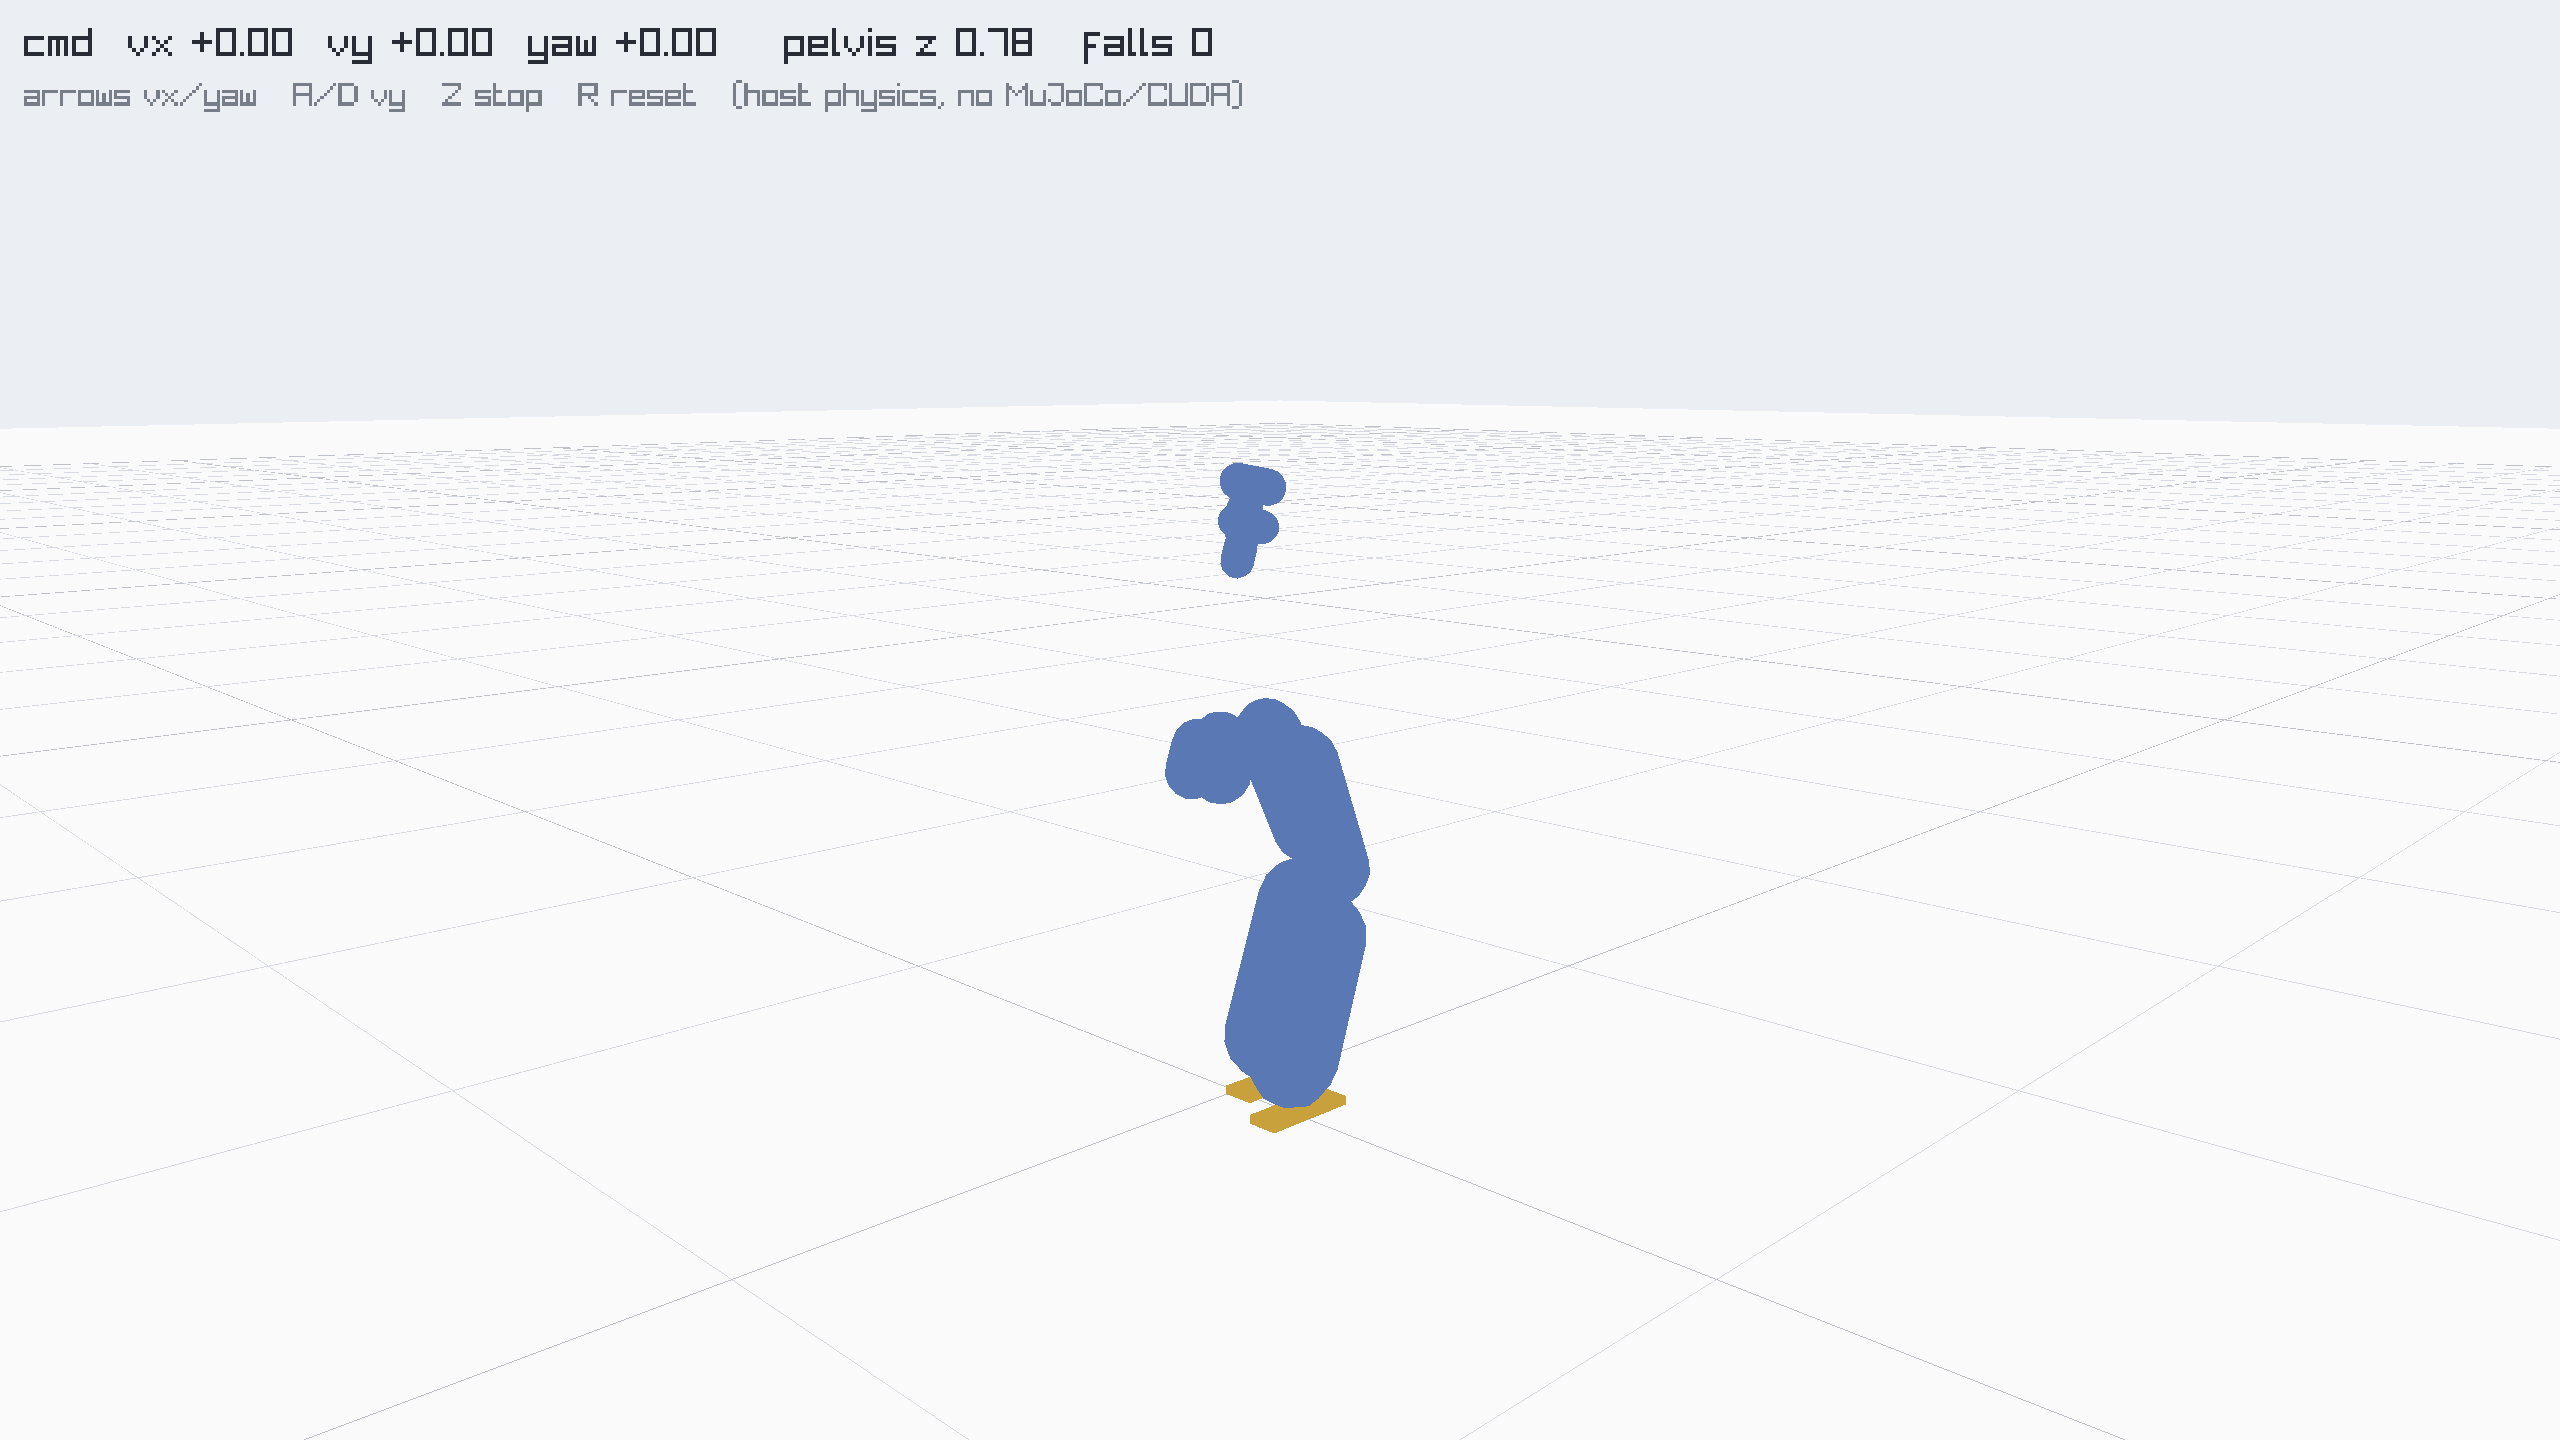
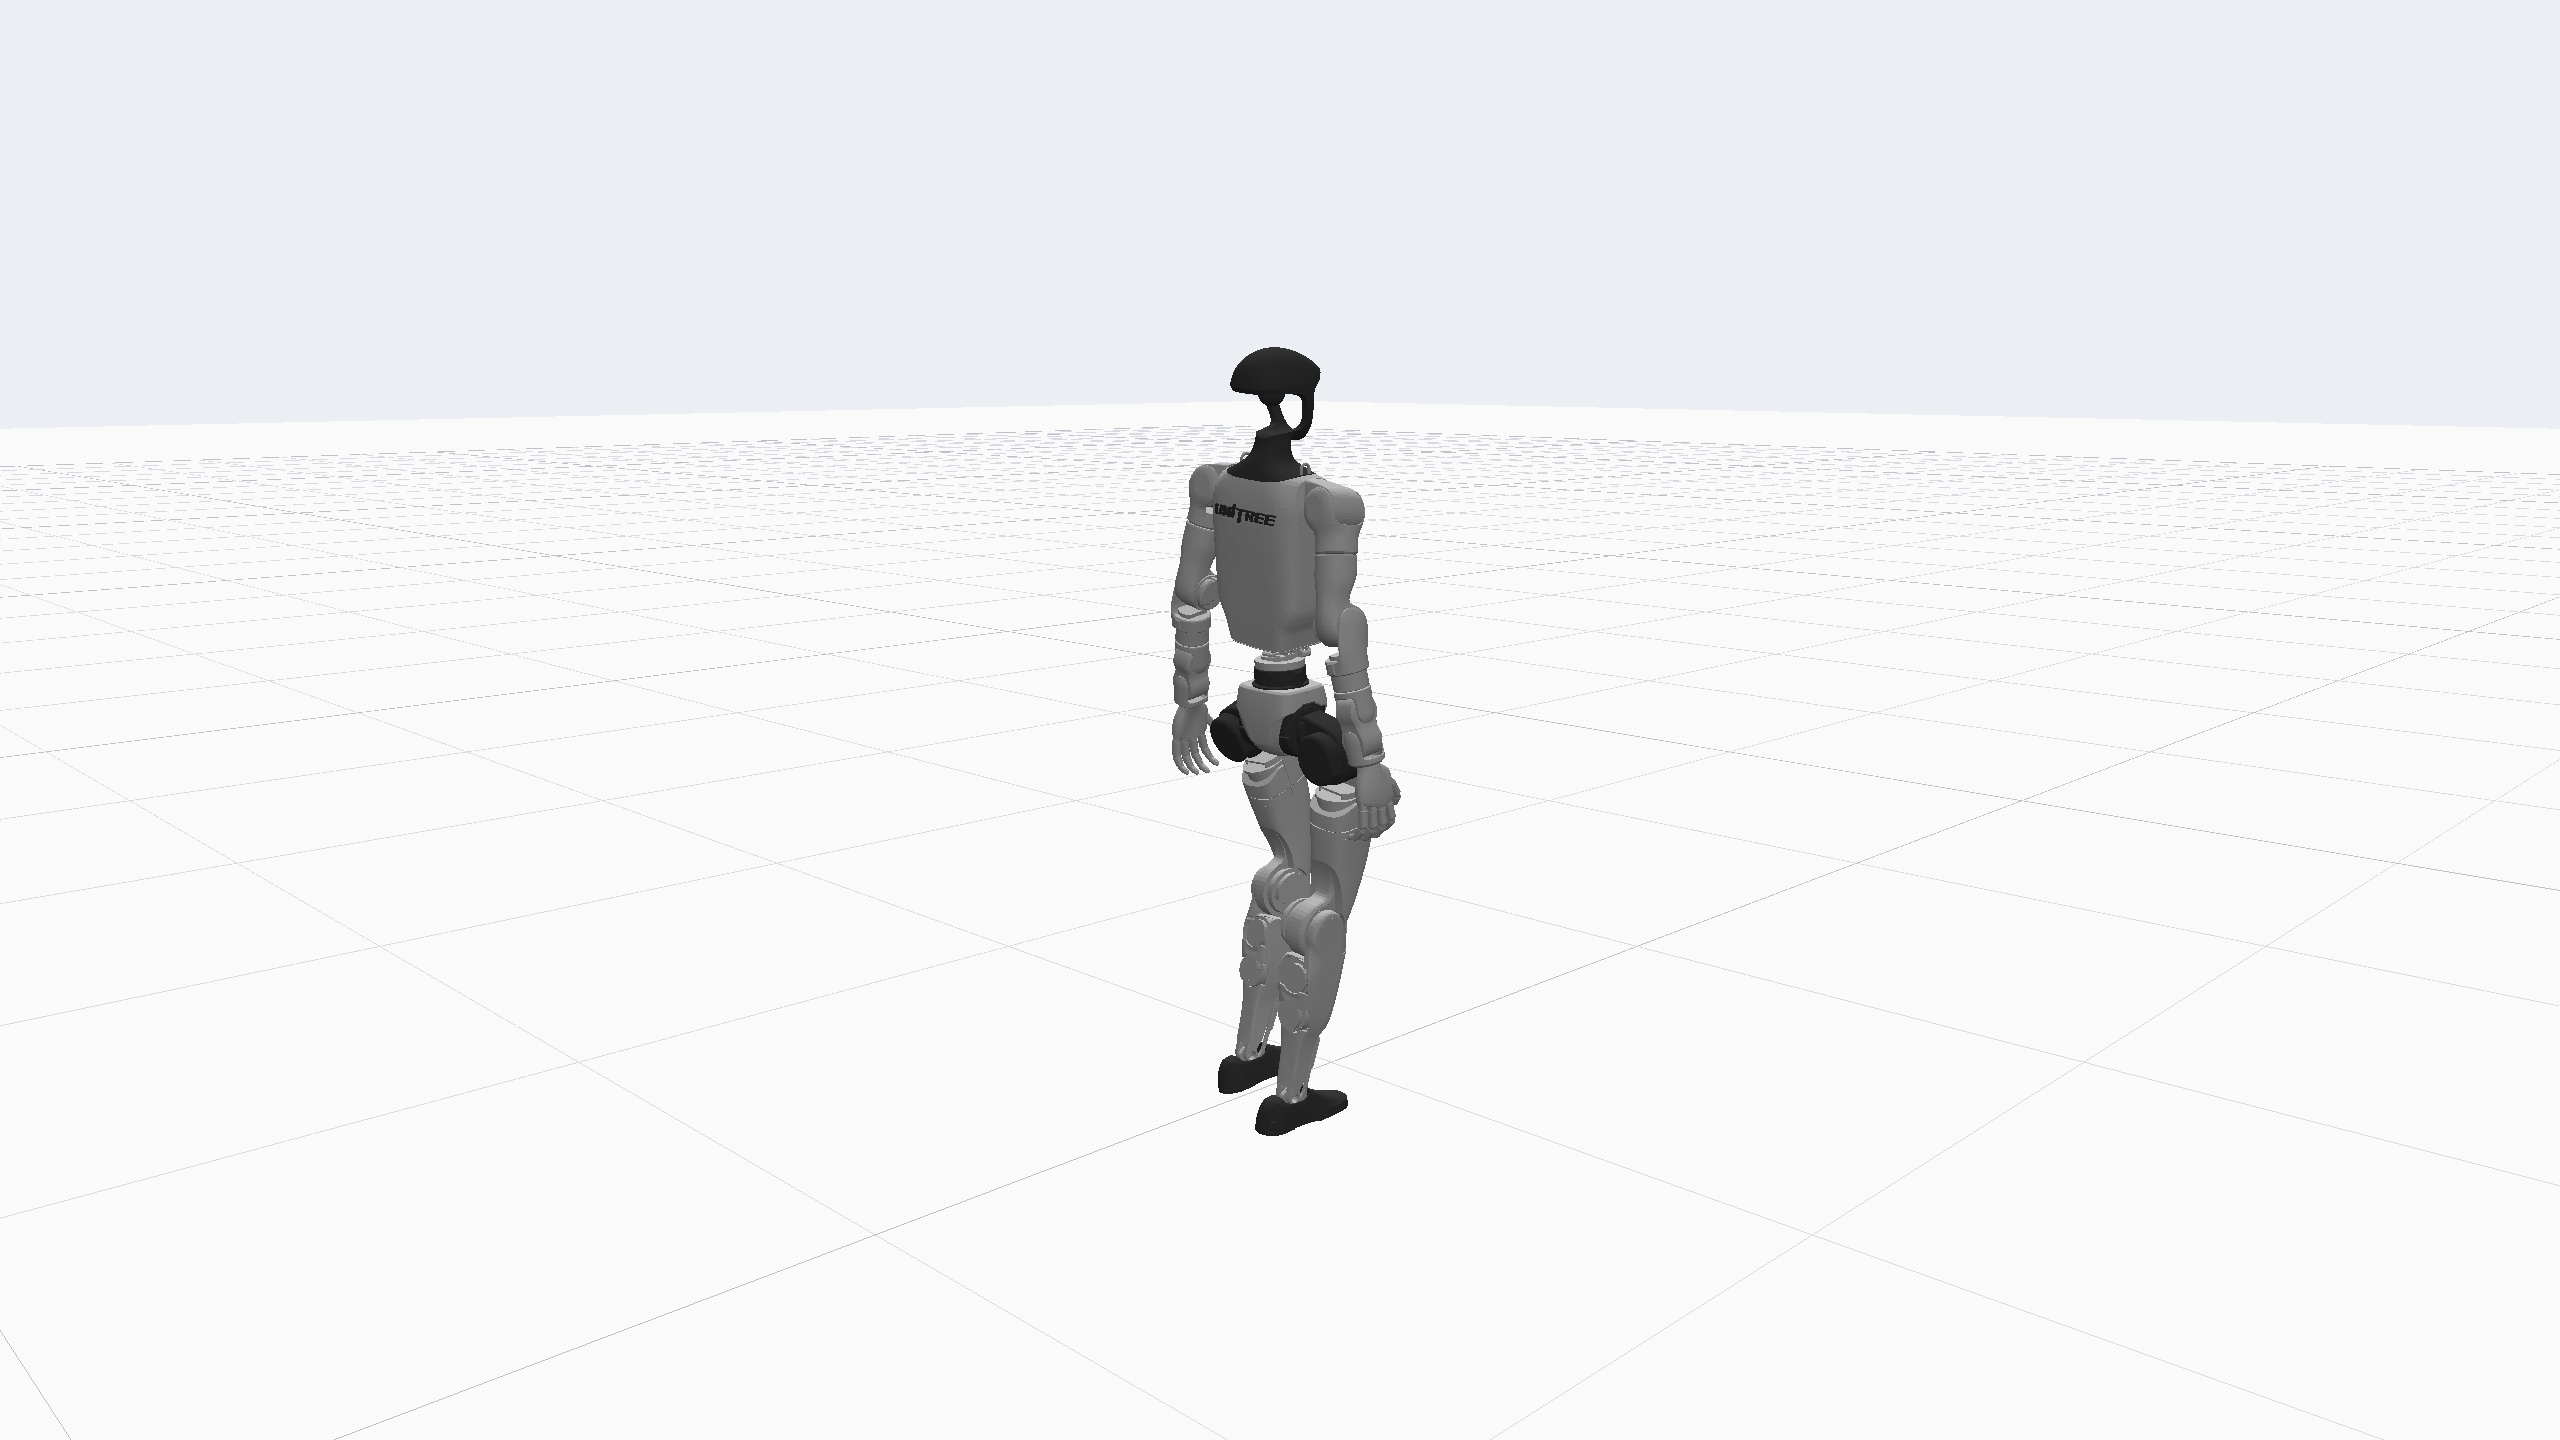
web: add GitHub link beside HF; legit walking-G1 preview image
- shell.html: official GitHub mark (48px) next to the HF icon -> public repo
- g1_demo.c: G1_DEMO_SHOT mode walks forward + runs fixed frames (reproducible shot)
- assets/preview.png: real meshed G1 mid-stride (replaces stale capsule capture)

diff --git a/web/shell.html b/web/shell.html
@@ -20,9 +20,11 @@
   #brandname{font-size:60px;font-weight:800;letter-spacing:1px;line-height:1;
     background:linear-gradient(90deg,#d2a8ff,#7ee787);-webkit-background-clip:text;
     background-clip:text;color:transparent}
-  #hflink{display:inline-block;margin-top:12px;font-size:48px;text-decoration:none;
-    pointer-events:auto;transition:transform .15s}
-  #hflink:hover{transform:scale(1.15)}
+  #links{margin-top:12px;display:flex;gap:18px;align-items:center;justify-content:center}
+  .iconlink{display:inline-flex;align-items:center;font-size:48px;line-height:1;
+    text-decoration:none;pointer-events:auto;transition:transform .15s}
+  .iconlink:hover{transform:scale(1.15)}
+  .iconlink svg{width:48px;height:48px;display:block}
 </style>
 </head>
 <body>
@@ -31,8 +33,14 @@
   <div id="load">loading G1 + policy + physics (WASM)…</div>
   <div id="brand">
     <div id="brandname">nanoG1</div>
-    <a id="hflink" href="https://huggingface.co/kingJulio/nanoG1" target="_blank" rel="noopener"
-       title="nanoG1 on Hugging Face">🤗</a>
+    <div id="links">
+      <a class="iconlink" href="https://huggingface.co/kingJulio/nanoG1" target="_blank" rel="noopener"
+         title="nanoG1 on Hugging Face">🤗</a>
+      <a class="iconlink" href="https://github.com/kingjulio8238/nanoG1" target="_blank" rel="noopener"
+         title="nanoG1 on GitHub">
+        <svg viewBox="0 0 16 16" fill="#1b1f24" aria-hidden="true"><path d="M8 0C3.58 0 0 3.58 0 8c0 3.54 2.29 6.53 5.47 7.59.4.07.55-.17.55-.38 0-.19-.01-.82-.01-1.49-2.01.37-2.53-.49-2.69-.94-.09-.23-.48-.94-.82-1.13-.28-.15-.68-.52-.01-.53.63-.01 1.08.58 1.23.82.72 1.21 1.87.87 2.33.66.07-.52.28-.87.51-1.07-1.78-.2-3.64-.89-3.64-3.95 0-.87.31-1.59.82-2.15-.08-.2-.36-1.02.08-2.12 0 0 .67-.21 2.2.82.64-.18 1.32-.27 2-.27.68 0 1.36.09 2 .27 1.53-1.04 2.2-.82 2.2-.82.44 1.1.16 1.92.08 2.12.51.56.82 1.27.82 2.15 0 3.07-1.87 3.75-3.65 3.95.29.25.54.73.54 1.48 0 1.07-.01 1.93-.01 2.2 0 .21.15.46.55.38A8.013 8.013 0 0 0 16 8c0-4.42-3.58-8-8-8z"/></svg>
+      </a>
+    </div>
   </div>
   <div id="stats" class="panel">
     training&nbsp;duration:&nbsp; <span class="p" style="font-weight:700">58.9s</span><br>

diff --git a/web/g1_demo.c b/web/g1_demo.c
@@ -325,12 +325,14 @@ int main(int argc, char** argv) {
     }
     SetTargetFPS(50);
     float vx=0,vy=0,wz=0; int frame=0, falls=0;
-    while (auto_frames ? frame<auto_frames : !WindowShouldClose()) {
+    int shotf = getenv("G1_DEMO_SHOT") ? atoi(getenv("G1_DEMO_SHOT")) : 0;
+    while (auto_frames ? frame<auto_frames : (shotf ? frame<=shotf : !WindowShouldClose())) {
         if (!auto_frames) {
             vx = IsKeyDown(KEY_UP)?0.8f:(IsKeyDown(KEY_DOWN)?-0.5f:0);
             wz = IsKeyDown(KEY_LEFT)?1.0f:(IsKeyDown(KEY_RIGHT)?-1.0f:0);
             vy = 0;   // strafe removed
             if (IsKeyPressed(KEY_R)) demo_reset();
+            if (getenv("G1_DEMO_SHOT")) { vx=0.8f; wz=0; }   // capture a forward walk, not a standstill
         } else { vx=0.5f; }   // headless: command a forward walk
         cmd[0]=vx; cmd[1]=vy; cmd[2]=wz;
         demo_control_step(net);